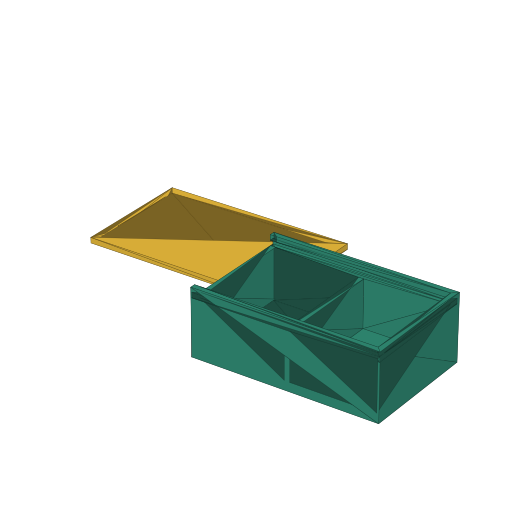
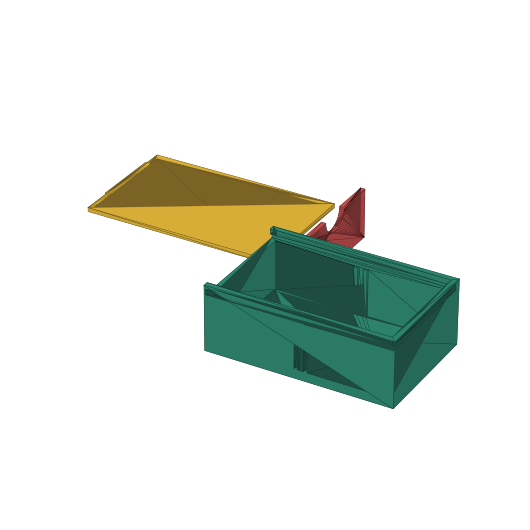
Caja v2: divisor extraíble, guías más resistentes y prueba de ajuste
Claude-Session: https://claude.ai/code/session_014uC1HzfvjBzABo3BJSS55w

Changed region(s): [[0.1509, 0.2717, 0.8755, 0.8151]]

diff --git a/caja-tapa-corrediza/generar_caja.py b/caja-tapa-corrediza/generar_caja.py
@@ -1,38 +1,81 @@
 """
-Reto 9 · Caja de repuestos escolares con tapa corrediza.
-Reproduce exactamente las figuras del paso a paso de Tinkercad (README.md).
+Reto 9 · Caja de repuestos escolares con tapa corrediza (versión 2).
+
+3 piezas que se arman y desarman a mano:
+  1) CUERPO   70 x 45 x 25 mm, paredes y piso de 2 mm, guías para la tapa
+              y rieles para el divisor.
+  2) TAPA     corrediza, entra por el frente y corre por las guías.
+  3) DIVISOR  extraíble, encaja entre dos pares de rieles -> 2 compartimientos.
+Prueba de ajuste: un tramo corto del cuerpo + un tramo de tapa (imprimir primero).
+
 Ejes como en Tinkercad: X = largo, Y = ancho, Z = alto. Unidades: mm.
+Todas las figuras son cajas/cilindros con la misma posición y medida del README.
 """
 import os
+import numpy as np
 import trimesh
 
 B = trimesh.boolean
 
 
 def caja(x, y, z, lx, ly, lz):
-    """Caja con esquina en (x, y, z) y medidas lx, ly, lz."""
+    """Caja con su esquina en (x, y, z) y medidas lx, ly, lz (como en Tinkercad)."""
     return trimesh.creation.box(bounds=[[x, y, z], [x + lx, y + ly, z + lz]])
 
 
-# Paso 1-2: cuerpo macizo menos el hueco interior
-cuerpo = B.difference([caja(0, 0, 0, 70, 45, 25), caja(2, 2, 2, 66, 41, 24)])
-# Paso 3: divisor central (llega a 20 mm para no rozar la tapa)
-cuerpo = B.union([cuerpo, caja(34, 2, 2, 2, 41, 18)])
-# Paso 4: ranura de las guías (laterales + fondo + entrada delantera)
-cuerpo = B.difference([cuerpo, caja(-1, 0.5, 21, 70.5, 44, 2)])
-# Paso 5: abertura delantera para meter la tapa con su relieve
-cuerpo = B.difference([cuerpo, caja(-1, 2, 21, 3.5, 41, 5)])
+def cilindro_x(x, y, z, largo, d):
+    """Cilindro acostado a lo largo de X, centro de la cara en (x, y, z)."""
+    c = trimesh.creation.cylinder(d / 2, largo, sections=48)
+    c.apply_transform(trimesh.transformations.rotation_matrix(np.pi / 2, [0, 1, 0]))
+    c.apply_translation([x + largo / 2, y, z])
+    return c
 
-# Paso 6-7: tapa 69 x 43 x 1.5 (0.25 mm de juego arriba y abajo) + relieve
-tapa = B.union([caja(0, 1, 21.25, 69, 43, 1.5), caja(4, 10, 22.75, 3, 25, 1.5)])
-tapa.apply_translation([0, 0, -21.25])  # apoyada en z = 0 para imprimir
 
+# ------------------------------------------------------------------ CUERPO
+cuerpo = B.difference([caja(0, 0, 0, 70, 45, 25),          # 1 sólido
+                       caja(2, 2, 2, 66, 41, 24)])          # 2 hueco
+rieles = [caja(32.5, 2, 2, 1.5, 1, 18), caja(36, 2, 2, 1.5, 1, 18),     # 3 rieles
+          caja(32.5, 42, 2, 1.5, 1, 18), caja(36, 42, 2, 1.5, 1, 18)]
+cuerpo = B.union([cuerpo] + rieles)
+cuerpo = B.difference([cuerpo,
+                       caja(-1, 0.8, 21, 70.2, 43.4, 2),     # 4 guías (1,2 mm de profundidad)
+                       caja(-1, 2, 21, 3.5, 41, 5)])         # 5 entrada delantera
+
+# -------------------------------------------------------------------- TAPA
+tapa = B.union([caja(0, 1.1, 21.25, 68.9, 42.8, 1.5),        # 6 placa
+                caja(1, 10, 22.75, 3, 25, 1.5)])             # 7 tirador
+
+# ----------------------------------------------------------------- DIVISOR
+divisor = B.difference([caja(34.2, 2.2, 2, 1.6, 40.6, 18),   # 8 placa
+                        cilindro_x(33, 22.5, 20, 4, 12)])    # 9 hueco para el dedo
+
+# ----------------------------------------------------------- PRUEBA AJUSTE
+probeta = B.difference([caja(0, 0, 0, 15, 45, 7),
+                        caja(-1, 2, 1.5, 17, 41, 7),
+                        caja(-1, 0.8, 3, 17, 43.4, 2)])
+tapa_prueba = caja(0, 0, 0, 15, 42.8, 1.5)
+
+# ---------------------------------------------------------------- chequeos
+piezas = {"cuerpo": cuerpo, "tapa": tapa, "divisor": divisor}
+ens = trimesh.util.concatenate(list(piezas.values()))
+print("Armado:", ens.extents.round(2), "mm (límite 80 x 80 x 60)")
+for n, m in piezas.items():
+    print(f"  {n:8s} estanco={m.is_watertight} {m.extents.round(2)} vol={m.volume/1000:.2f} cm3")
+for a, b in (("cuerpo", "tapa"), ("cuerpo", "divisor"), ("tapa", "divisor")):
+    x = B.intersection([piezas[a], piezas[b]])
+    print(f"  choque {a}/{b}:", 0 if len(x.faces) == 0 else round(x.volume, 3), "mm3")
+
+# ---------------------------------------------------------------- exportar
 out = os.path.join(os.path.dirname(os.path.abspath(__file__)), "salida")
-cuerpo.export(os.path.join(out, "caja_cuerpo.stl"))
-tapa.export(os.path.join(out, "caja_tapa.stl"))
-tapa.apply_translation([0, 0, 21.25])
-trimesh.util.concatenate([cuerpo, tapa]).export(os.path.join(out, "caja_ensamblada.stl"))
-for n, m in (("cuerpo", cuerpo), ("tapa", tapa)):
-    print(n, m.is_watertight, m.extents.round(2), round(m.volume / 1000, 2), "cm3")
-choque = B.intersection([cuerpo, tapa])
-print("interferencia:", 0 if len(choque.faces) == 0 else round(choque.volume, 3))
+os.makedirs(out, exist_ok=True)
+for f in os.listdir(out):
+    os.remove(os.path.join(out, f))
+ens.export(os.path.join(out, "caja_armada.stl"))
+cuerpo.export(os.path.join(out, "1_cuerpo.stl"))
+t = tapa.copy(); t.apply_translation([0, 0, -21.25]); t.export(os.path.join(out, "2_tapa.stl"))
+d = divisor.copy()                                  # acostado para imprimir sin soporte
+d.apply_transform(trimesh.transformations.rotation_matrix(np.pi / 2, [0, 1, 0]))
+d.apply_translation(-d.bounds[0]); d.export(os.path.join(out, "3_divisor.stl"))
+probeta.export(os.path.join(out, "prueba_guia.stl"))
+tapa_prueba.export(os.path.join(out, "prueba_tapa.stl"))
+print("Listo ->", out)

diff --git a/caja-tapa-corrediza/README.md b/caja-tapa-corrediza/README.md
@@ -1,36 +1,85 @@
-# Reto 9 · Caja de repuestos escolares con tapa corrediza
+# Reto 9 · Caja de repuestos escolares con tapa corrediza (versión 2)
+
+3 piezas que se arman y desarman a mano, sin pegamento:
+**cuerpo** + **tapa corrediza** + **divisor extraíble**.
+
+![piezas](vista_abierta.png)
 
 Ejes como en Tinkercad: **X = largo · Y = ancho · Z = alto**. Medidas en mm.
-Posición = distancia desde la esquina de la caja (Regla en la esquina 0,0).
+Posición = distancia desde la esquina de la caja (Regla en la esquina 0, 0).
 
-![abierta](vista_abierta.png)
+## Pieza 1 · Cuerpo
 
-## Cuerpo
-
-| Paso | Figura | Tipo | Tamaño X × Y × Z | Posición X, Y, Z |
+| Paso | Figura | Tipo | Tamaño X × Y × Z | Posición X ; Y ; Z |
 |---|---|---|---|---|
-| 1 | Caja exterior | Sólido | 70 × 45 × 25 | 0, 0, 0 |
-| 2 | Hueco interior | Agujero | 66 × 41 × 24 | 2, 2, 2 |
+| 1 | Caja exterior | Sólido | 70 × 45 × 25 | 0 ; 0 ; 0 |
+| 2 | Hueco interior | Agujero | 66 × 41 × 24 | 2 ; 2 ; 2 |
 | — | **Agrupar 1 + 2** | | | |
-| 3 | Divisor central | Sólido | 2 × 41 × 18 | 34, 2, 2 |
+| 3a | Riel | Sólido | 1,5 × 1 × 18 | 32,5 ; 2 ; 2 |
+| 3b | Riel | Sólido | 1,5 × 1 × 18 | 36 ; 2 ; 2 |
+| 3c | Riel | Sólido | 1,5 × 1 × 18 | 32,5 ; 42 ; 2 |
+| 3d | Riel | Sólido | 1,5 × 1 × 18 | 36 ; 42 ; 2 |
 | — | **Agrupar con lo anterior** | | | |
-| 4 | Ranura de guías | Agujero | 70,5 × 44 × 2 | −1; 0,5; 21 |
-| 5 | Entrada delantera | Agujero | 3,5 × 41 × 5 | −1, 2, 21 |
-| — | **Agrupar todo → cuerpo terminado** | | | |
+| 4 | Guías de la tapa | Agujero | 70,2 × 43,4 × 2 | −1 ; 0,8 ; 21 |
+| 5 | Entrada delantera | Agujero | 3,5 × 41 × 5 | −1 ; 2 ; 21 |
+| — | **Agrupar todo → cuerpo** | | | |
 
-## Tapa
+## Pieza 2 · Tapa
 
-| Paso | Figura | Tipo | Tamaño X × Y × Z | Posición X, Y, Z |
+| Paso | Figura | Tipo | Tamaño X × Y × Z | Posición X ; Y ; Z |
 |---|---|---|---|---|
-| 6 | Placa de la tapa | Sólido | 69 × 43 × **1,5** | 0; 1; 21,25 |
-| 7 | Relieve para empujar | Sólido | 3 × 25 × 1,5 | 4; 10; 22,75 |
+| 6 | Placa | Sólido | 68,9 × 42,8 × 1,5 | 0 ; 1,1 ; 21,25 |
+| 7 | Tirador | Sólido | 3 × 25 × 1,5 | 1 ; 10 ; 22,75 |
 | — | **Agrupar 6 + 7 → tapa** | | | |
 
-Tapa de 1,5 mm en ranura de 2 mm = 0,25 mm de juego arriba y abajo
-(con 2 mm no quedaba juego y la tapa se trababa).
+## Pieza 3 · Divisor
 
-Holguras: ranura de 44 mm de ancho y tapa de 43 mm = **0,5 mm por lado**;
-ranura hasta 69,5 mm y tapa de 69 mm = 0,5 mm al fondo.
+| Paso | Figura | Tipo | Tamaño X × Y × Z | Posición X ; Y ; Z |
+|---|---|---|---|---|
+| 8 | Placa | Sólido | 1,6 × 40,6 × 18 | 34,2 ; 2,2 ; 2 |
+| 9 | Hueco para el dedo | Agujero, cilindro acostado en X, Ø 12, largo 4 | 4 × 12 × 12 | 33 ; 16,5 ; 14 |
+| — | **Agrupar 8 + 9 → divisor** | | | |
 
-Archivos de comprobación en `salida/` (`caja_cuerpo.stl`, `caja_tapa.stl`,
-`caja_ensamblada.stl`) generados con `generar_caja.py` con las mismas figuras.
+## Holguras (prueba de ajuste)
+
+| Unión | Medida | Juego |
+|---|---|---|
+| Tapa en guías (ancho) | guía 43,4 · tapa 42,8 | 0,3 mm por lado |
+| Tapa en guías (alto) | guía 2 · tapa 1,5 | 0,25 mm arriba y abajo |
+| Tapa al fondo | guía hasta 69,2 · tapa 68,9 | 0,3 mm |
+| Divisor entre rieles | ranura 2 · divisor 1,6 | 0,2 mm por lado |
+| Divisor a lo ancho | interior 41 · divisor 40,6 | 0,2 mm por lado |
+
+La tapa queda atrapada 0,9 mm en cada guía y el divisor 0,8 mm en cada par de rieles.
+
+## Cambios respecto a la versión 1 (registro de cambios)
+
+| Cambio | Antes | Ahora | Por qué |
+|---|---|---|---|
+| Grosor de la tapa | 2 mm | 1,5 mm | con 2 mm en guía de 2 mm no había juego y se trababa |
+| Profundidad de guía | 1,5 mm | 1,2 mm | la pared quedaba de 0,5 mm; ahora 0,8 mm, más resistente |
+| Holgura lateral | 0,5 mm | 0,3 mm | con guía de 1,2 mm, 0,5 mm dejaba la tapa casi suelta |
+| Divisor | fijo | extraíble con rieles | se arma y desarma; permite un solo compartimiento grande |
+| Tirador | a 4 mm del borde | en el borde (1 mm) | se empuja mejor con el dedo |
+
+## Impresión (estimado en PrusaSlicer, verificar en Cura / Bambu Studio)
+
+| Ajuste | 3 piezas juntas |
+|---|---|
+| Capa 0,28 mm · relleno 15 % · 2 paredes | **~88 min · 25 g** |
+| Capa 0,20 mm · relleno 15 % · 2 paredes | ~101 min (pasa el límite) |
+| Prueba de ajuste (`prueba_guia` + `prueba_tapa`) | ~12 min · 3 g |
+
+Velocidades usadas: 50 mm/s paredes, 80 mm/s relleno. En Bambu Studio sale bastante menos.
+Sin soportes: el cuerpo boca arriba, la tapa con el tirador arriba y el divisor acostado.
+
+## Pruebas sugeridas (objetivo D)
+
+| Criterio | Prueba | Se cumple si… |
+|---|---|---|
+| Tapa desliza | abrir y cerrar 20 veces | no se traba ni se sale por arriba |
+| Tapa no se cae | caja boca abajo y sacudir | la tapa no se sale |
+| Divisor desmontable | sacar y poner 10 veces | entra a mano y no se cae solo |
+| Dos compartimientos | poner minas en uno y clips en otro | no se mezclan con la caja cerrada |
+| Medidas | regla o vernier | 70 × 45 × 25 mm ± 0,5 |
+| Tiempo | captura de Cura | ≤ 90 min |
